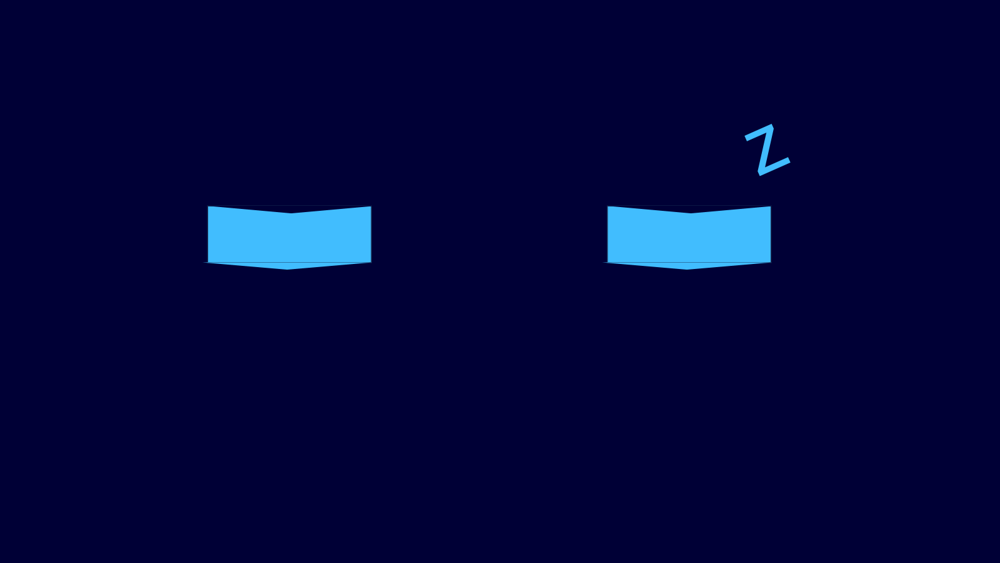
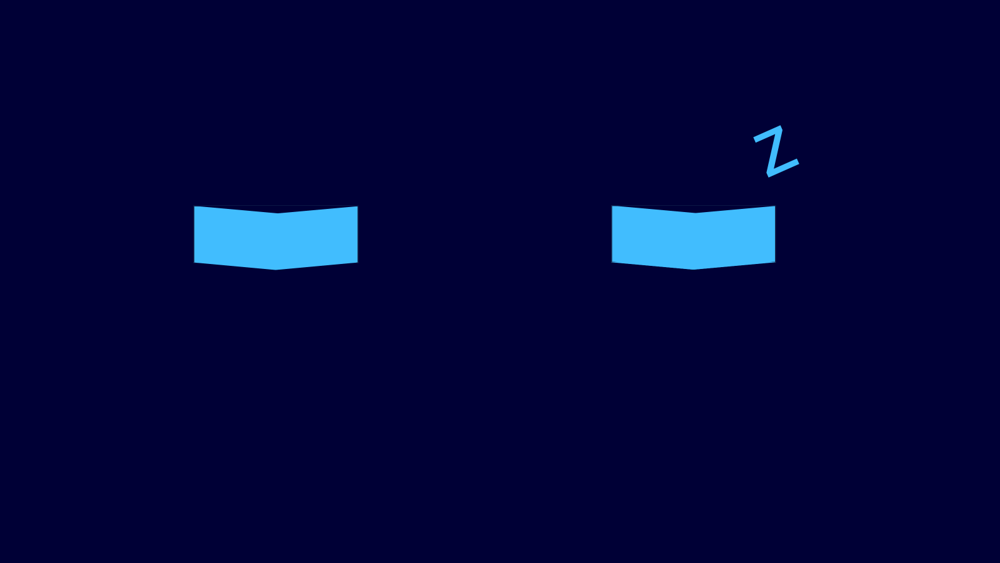
睡眠模式成功

Changed region(s): [[0.186, 0.3623, 0.372, 0.4831], [0.589, 0.3623, 0.775, 0.4831], [0.744, 0.2114, 0.806, 0.3321]]

diff --git a/widget.cpp b/widget.cpp
@@ -343,6 +343,8 @@ void Widget::onExpressionDurationTimeout()
     // 持续时间结束，恢复到上一个表情或Normal
     ExpressionType restoreType = (previousExpression != currentExpression) ? previousExpression : ExpressionType::Normal;
     qDebug() << "[表情切换] 持续时间结束，恢复到:" << expressionTypeToString(restoreType);
+    // 恢复表情时触发一次眨眼动画
+    blinkOnce();
     setExpressionBackground(restoreType);
 }
 
@@ -744,8 +746,21 @@ void Widget::onBlinkTimeout()
 // ========= 新增：空闲定时器槽函数 =========
 void Widget::onIdleTimeout()
 {
+    // 休眠模式：停止随机眨眼定时器（避免 blinkOnce 结束后重新启动）
+    if (blinkTimer && blinkTimer->isActive()) {
+        blinkTimer->stop();
+    }
+
+    // 播放一次眨眼动画
     blinkOnce();
-    setExpressionBackground(ExpressionType::Sleep);
+
+    // 在眨眼动画结束后(≈300ms)强制切换为 Sleep，并再次确保定时器已停
+    QTimer::singleShot(350, this, [this]() {
+        setExpressionBackground(ExpressionType::Sleep);
+        if (blinkTimer && blinkTimer->isActive()) {
+            blinkTimer->stop();
+        }
+    });
 }
 
 void Widget::resetIdleTimer()
